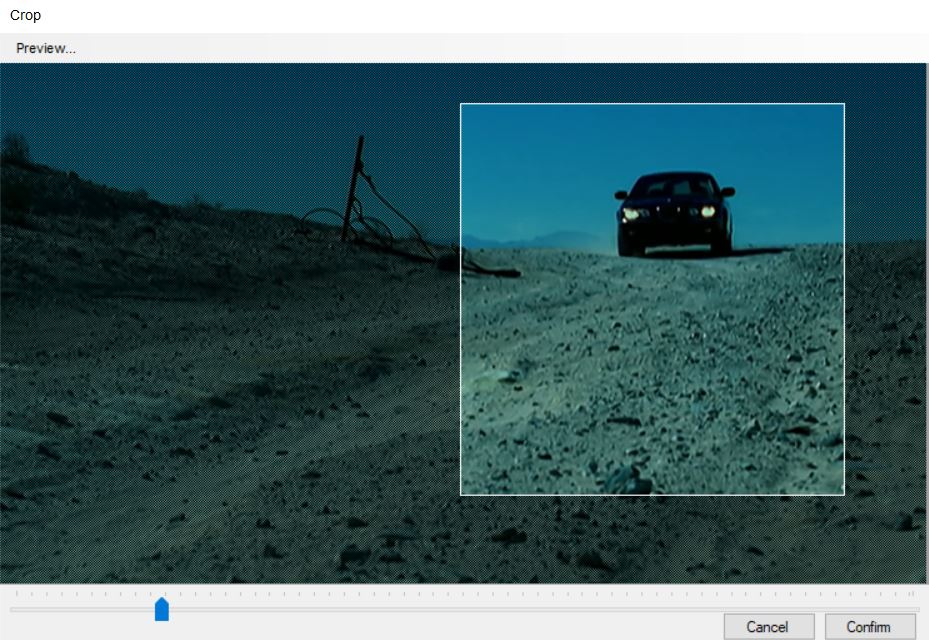
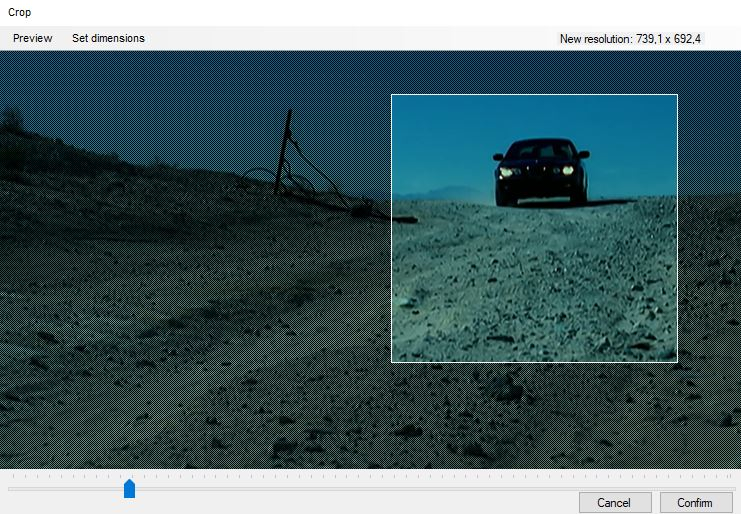
update readme

diff --git a/README.md b/README.md
@@ -64,7 +64,7 @@ Trim precisely the length, with a simple interface. You can do multiple trims if
 
 ### Crop
 
-Crop what is just important for you, just move the edges with the mouse or use the keys.
+Crop what is just important for you, you can see in real time the new resolution also you can set the exact size that you want. Just move the edges with the mouse or use the keys to select the area.
 * ```Row keys``` to move
 * ```Shift + Row keys``` to move faster
 * ```Alt + Row Keys``` to increase/decrease the size 
@@ -75,7 +75,7 @@ Crop what is just important for you, just move the edges with the mouse or use t
 
 ### Filter
 
-If your video looks dark, you can try with some filters.
+If your video looks dark, you can try with some pre-set filters. Now you can create your own filter using *Advanced* option, change gamma, contrast and saturation.
 
 ![filter](img/light.JPG)
 
